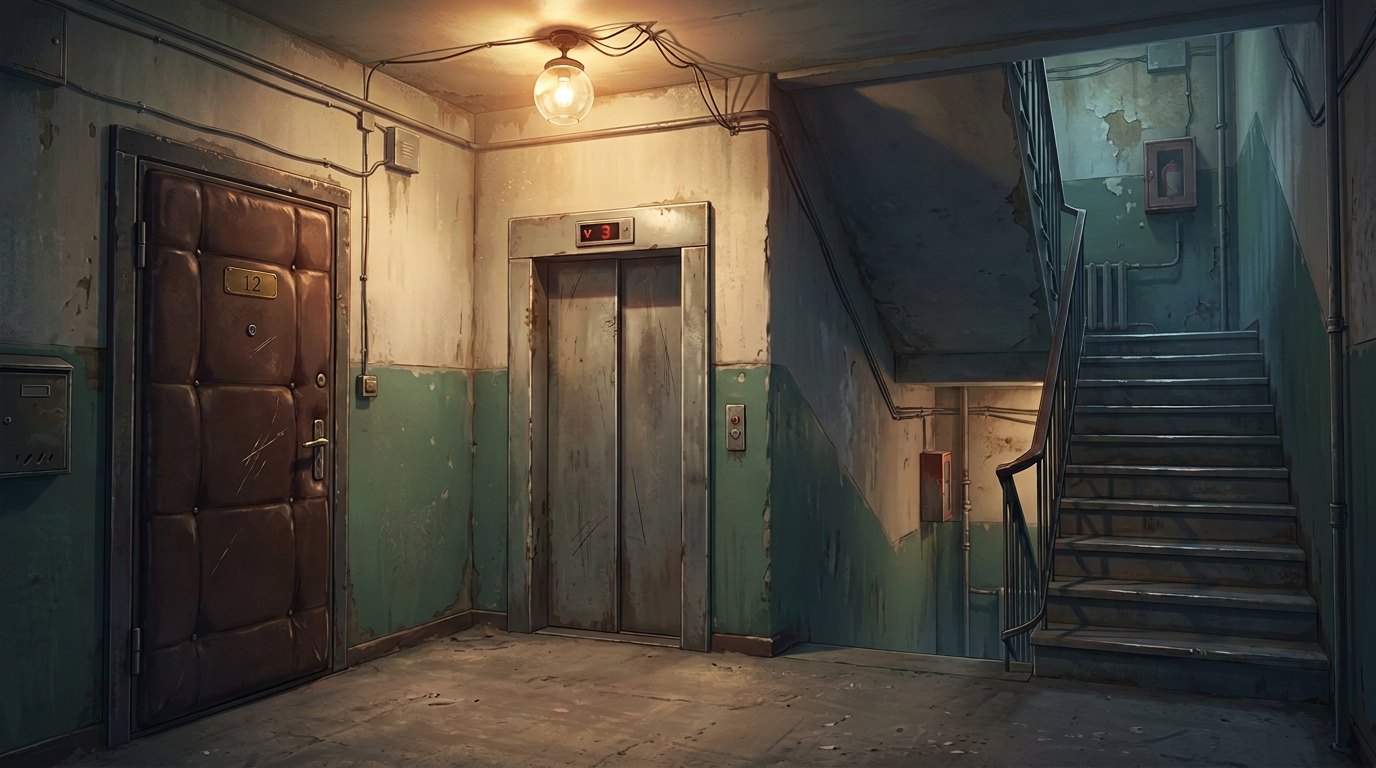
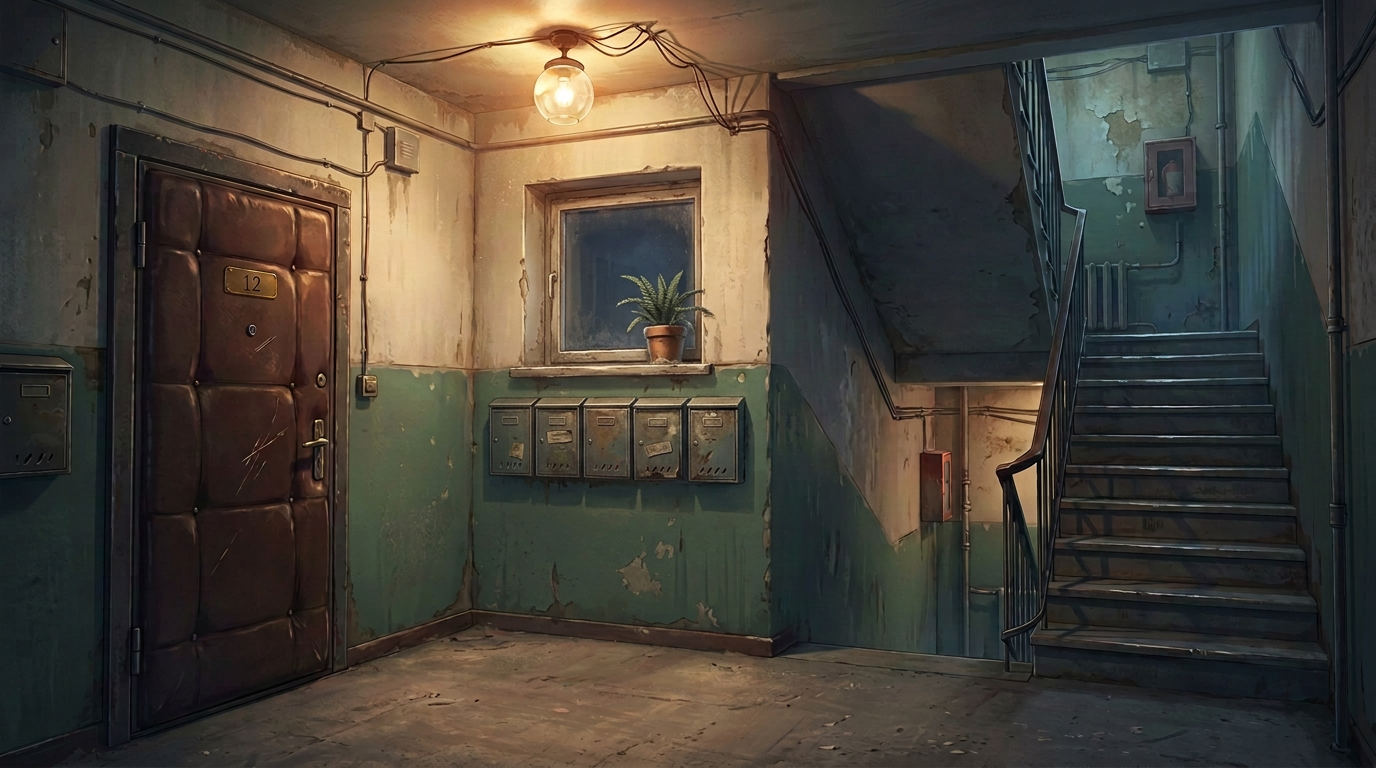
Visuals: new Week 1 backgrounds (reception, glitch arch door 0, Artem's landing, elevator glitch, Buffer corridor, stairwell door at night, pastry shop, depot office); hallway without elevator; park bridge without domes/autumn; day 1 text fixes

Changed region(s): [[0.3438, 0.2188, 0.5625, 0.8438]]

diff --git a/script/day1_3_evening.js b/script/day1_3_evening.js
@@ -36,7 +36,7 @@ window.VN_CHAPTERS.push({
             label: "Честно: «Мне надо побыть одному»",
             effects: { inner_sight: 1 },
             next: [
-              { speaker: "Александр", sprite: { char: "alexander", emotion: "thoughtful", pos: "left" }, text: "Мне надо побыть одному. Не от тебя. От всего этого. Я пока не понимаю, где у меня голова." },
+              { speaker: "Александр", sprite: { char: "alexander", emotion: "thoughtful", pos: "left" }, text: "Мне надо побыть одному. Ты тут ни при чём. Я пока не понимаю, где у меня голова." },
               { speaker: "Мираэль", sprite: { char: "mirael_angel", emotion: "sad", pos: "right" }, text: "Ты так говорил маме, когда тебя отчислили. И ушёл на всю ночь на набережную." },
               { speaker: "Мираэль", text: "Я тогда тоже ходила за тобой. Сегодня не пойду. Обещаю." }
             ]
@@ -53,8 +53,8 @@ window.VN_CHAPTERS.push({
       }
     },
     { bg: "bg_apartment_hallway", sprite: "clear", text: "В подъезде мигала лампа на третьем. Внизу хлопнула дверь, и по лестнице пошёл сквозняк с запахом липы." },
-    { bg: "bg_old_park_bridge", bgm: "Soft Morning Light.mp3", text: "Магазин он прошёл мимо. Ноги сами вынесли его в старый парк, к горбатому каменному мосту." },
-    { text: "Вечер был тёплый и чистый, как будто вчерашней грозы не было. Над водой висела мошкара, на скамейке целовались двое школьников, где-то играла музыка из телефона." },
+    { bg: "bg_old_park_bridge", bgm: "Soft Morning Light.mp3", text: "Магазин он прошёл мимо. Ноги сами вынесли его в старый парк, к чугунному мостику над прудом." },
+    { text: "Вечер был тёплый и чистый, как будто вчерашней грозы не было. Над водой висела мошкара, а на скамейке под ивой целовались двое школьников." },
     { text: "Всё было слишком обычным. Саша смотрел на это, как смотрят в окно поезда: вот люди, вот деревья, и всё это едет мимо." },
     { speaker: "Александр", thought: true, text: "Вчера в 22:58 напротив моей фамилии поставили точку. А сегодня я стою на мосту и думаю, что забыл купить хлеб." },
     { text: "Он достал из кармана дедовские часы. Под треснувшим стеклом — 22:58. Секундная стрелка стояла на шести." },
@@ -69,7 +69,7 @@ window.VN_CHAPTERS.push({
             effects: { inner_sight: 1 },
             next: [
               { speaker: "Александр", thought: true, text: "Мне страшно. Вот. Сказал. До тошноты страшно." },
-              { text: "Легче не стало, но стало честнее. Он постоял ещё немного, держась за тёплый от солнца парапет, пока дыхание не выровнялось." }
+              { text: "Он постоял ещё, держась за тёплые от солнца перила, и ждал, пока выровняется дыхание. Над прудом с визгом носились стрижи." }
             ]
           },
           {
@@ -169,7 +169,7 @@ window.VN_CHAPTERS.push({
     { bg: "bg_sasha_room_night", text: "К полуночи он постелил себе на полу у шкафа. Мираэль легла на кровать, свесив край верхнего крыла почти до его подушки." },
     { speaker: "Мираэль", sprite: { char: "mirael_angel", emotion: "sad", pos: "right" }, text: "Саша. Ты спишь?" },
     { speaker: "Александр", text: "Почти." },
-    { speaker: "Мираэль", text: "Я больше не умею смотреть на тебя сверху. Только отсюда." },
+    { speaker: "Мираэль", text: "Я двадцать один год смотрела на тебя сверху. Отсюда ты совсем другой. Лохматый." },
     { sprite: "clear", text: "Перо над его подушкой чуть шевельнулось от её дыхания и затихло." }
   ]
 });

diff --git a/index.html b/index.html
@@ -260,22 +260,22 @@
   </div>
 
   <!-- SCRIPT CHAPTERS -->
-  <script src="vn-config.js?v=20261101_06"></script>
-  <script src="vn-core.js?v=20261101_06"></script>
-  <script src="script/_registry.js?v=20261101_06"></script>
-  <script src="script/prologue_1_morning.js?v=20261101_06"></script>
-  <script src="script/prologue_2_city.js?v=20261101_06"></script>
-  <script src="script/prologue_3_depot.js?v=20261101_06"></script>
-  <script src="script/prologue_4_crash.js?v=20261101_06"></script>
-  <script src="script/day1_1_mirael.js?v=20261101_06"></script>
-  <script src="script/day1_2_valeria.js?v=20261101_06"></script>
-  <script src="script/day1_3_evening.js?v=20261101_06"></script>
-  <script src="script/day2_1_taya.js?v=20261101_06"></script>
-  <script src="script/day2_2_depot.js?v=20261101_06"></script>
-  <script src="script/day2_3_night.js?v=20261101_06"></script>
-  <script src="script/day3_1_office.js?v=20261101_06"></script>
-  <script src="script/day3_2_nika.js?v=20261101_06"></script>
-  <script src="script/day3_3_home.js?v=20261101_06"></script>
-  <script src="engine.js?v=20261101_06"></script>
+  <script src="vn-config.js?v=20261101_07"></script>
+  <script src="vn-core.js?v=20261101_07"></script>
+  <script src="script/_registry.js?v=20261101_07"></script>
+  <script src="script/prologue_1_morning.js?v=20261101_07"></script>
+  <script src="script/prologue_2_city.js?v=20261101_07"></script>
+  <script src="script/prologue_3_depot.js?v=20261101_07"></script>
+  <script src="script/prologue_4_crash.js?v=20261101_07"></script>
+  <script src="script/day1_1_mirael.js?v=20261101_07"></script>
+  <script src="script/day1_2_valeria.js?v=20261101_07"></script>
+  <script src="script/day1_3_evening.js?v=20261101_07"></script>
+  <script src="script/day2_1_taya.js?v=20261101_07"></script>
+  <script src="script/day2_2_depot.js?v=20261101_07"></script>
+  <script src="script/day2_3_night.js?v=20261101_07"></script>
+  <script src="script/day3_1_office.js?v=20261101_07"></script>
+  <script src="script/day3_2_nika.js?v=20261101_07"></script>
+  <script src="script/day3_3_home.js?v=20261101_07"></script>
+  <script src="engine.js?v=20261101_07"></script>
 </body>
 </html>

diff --git a/script/day1_2_valeria.js b/script/day1_2_valeria.js
@@ -13,7 +13,7 @@ window.VN_CHAPTERS.push({
     { text: "Сказал он это твёрже, чем чувствовал. В прихожей он зачем-то пригладил волосы и только потом повернул замок." },
     { bg: "bg_apartment_hallway", bgm: "Midnight Boardroom.mp3", sprite: { char: "valeria_human", emotion: "neutral", pos: "left" }, text: "На площадке стояла высокая женщина: чёрные волосы в высоком хвосте, серая рубашка, узкая чёрная юбка, кожаная папка под мышкой. Так выглядят юристы, которые берут за час больше, чем курьер за неделю." },
     { sprite: { char: "nika", emotion: "bored", pos: "right" }, text: "За её плечом, на перилах, сидела девчонка с рыже-розовыми хвостиками, в кожаной куртке. За спиной у неё лениво качался хвост. Настоящий, с кисточкой." },
-    { text: "Снизу поднимался сосед из сорок второй с мусорным ведром. Он прошёл в двух шагах от девчонки, не глядя. Хвост дёрнулся, пропуская ведро." },
+    { text: "Из квартиры напротив вышел сосед с мусорным ведром и пошёл вниз. Прошёл в двух шагах от девчонки, не глядя. Хвост дёрнулся, пропуская ведро." },
     { speaker: "Ника", sprite: { char: "nika", emotion: "annoyed", pos: "right" }, text: "Пятый этаж пешком. В июле. Это вообще законно? Я стажёр, а не скалолаз." },
     { speaker: "Валерия", sprite: { char: "valeria_human", emotion: "playful_smile", pos: "left" }, text: "Добрый день, Александр. Разрешите войти? Обсуждать вашу смерть на лестнице — неудобно. Соседи." },
     {

diff --git a/engine.js b/engine.js
@@ -1,6 +1,6 @@
 // ДВИЖОК ВИЗУАЛЬНОЙ НОВЕЛЛЫ «НЕ СМОТРИ НА НЕБО» ($WAG ENTERTAINMENT)
 (function () {
-  const ASSET_VER = "20261101_06";
+  const ASSET_VER = "20261101_07";
 
   function withVer(url) {
     if (!url) return "";

diff --git a/docs/production/assets.md b/docs/production/assets.md
@@ -12,7 +12,8 @@
 | `bg_sasha_room_night.png` | Комната Саши ночью | вечер, ночь | — |
 | `bg_sasha_kitchen_day.png` | Кухня днём | утро, день | — |
 | `bg_sasha_kitchen_night.png` | Кухня ночью | вечер, ночь, сухо | ✅ 01.11 перерисована в планировке дневной |
-| `bg_apartment_hallway.png` | Подъезд / лестничная клетка | любое (свет искусственный) | Для сбоя №3 нужна дверь под лестницей |
+| `bg_apartment_hallway.png` | Подъезд / лестничная клетка | любое (свет искусственный) | ✅ 01.11 убран лифт (пятиэтажка без лифта) |
+| `bg_stairwell_door_night.png` | Тот же подъезд ночью, жёлтая дверь под лестницей приоткрыта | ночь, сбой №3 | ✅ 01.11 |
 | `bg_summer_town_day.png` | Летняя улица, пятиэтажки | день, ясно | — |
 | `bg_courtyard_arch_day.png` | Арка во двор | **только день** | Ночью — `bg_courtyard_arch_night.png` (✅ 01.11) |
 | `bg_river_embankment_day.png` | Речная набережная | день | Вечер — `bg_river_embankment_evening.png` (✅ 01.11) |
@@ -21,13 +22,20 @@
 | `bg_barbershop_interior.png` | Барбершоп Артёма | день | — |
 | `bg_artyom_apartment.png` | Квартира Артёма | вечер | — |
 | `bg_city_cafe.png` | Кафе с бабл-ти | день | — |
-| `bg_old_park_bridge.png` | Старый мост в парке | вечер | — |
+| `bg_old_park_bridge.png` | Чугунный мостик над прудом в старом парке | вечер | ✅ 01.11 убраны купола и осенняя листва (середина лета) |
 | `bg_taya_workshop.png` | Мастерская Таи, полуподвал | **вечер / ночь** (янтарная лампа) | ✅ 01.11 окно ночное |
 | `bg_valeria_office.png` | Кабинет Валерии | день | ✅ 01.11 в окне провинциальные крыши и водонапорная башня, без куполов |
+| `bg_valeria_reception.png` | Приёмная «Валерия и партнёры» (Инесса) | день | ✅ 01.11 |
+| `bg_glitch_arch_door.png` | Арка Старокупеческого со жёлтой дверью «0», звук пропал | день, сбой №1 | ✅ 01.11 |
+| `bg_artyom_landing.png` | Верхний этаж новостройки Артёма, лифт | вечер | ✅ 01.11 |
+| `bg_elevator_glitch.png` | Кабина лифта, на табло «—», мигает свет | сбой №2 | ✅ 01.11 |
+| `bg_buffer_corridor.png` | Жёлтый коридор Буфера, таксофон, часы 22:58 | Буфер | ✅ 01.11 |
+| `bg_pastry_shop.png` | Кондитерская | день | ✅ 01.11 |
+| `bg_depot_office.png` | Диспетчерская депо (Дмитрий) | утро, день | ✅ 01.11 |
 | `cg_sasha_mirror.png` | CG: Саша у зеркала | Пролог, утро | Поза не совпадает с текстом. Либо править текст под CG, либо перерисовать |
 | `cg_crash_headlights.png` | CG: фары в ливне | Пролог, 22:58 | Слабый. Оставить до перерисовки |
 
-Нужны новые фоны (по `04_plot.md`): приёмная бюро (Инесса), подсобка под лестницей / жёлтый коридор Буфера (сбой №2–3), подъезд Артёма с лифтом. (Ночной двор Старокупеческого — ✅ `bg_courtyard_arch_night`.)
+Новые фоны Недели 1 — ✅ 01.11 (см. таблицу). Ещё не сделаны: салон Валерии (День 7, вечер), слепок ночи ДТП в Буфере (секретная ветка).
 
 ## 2. Спрайты (`assets/characters/`)
 
